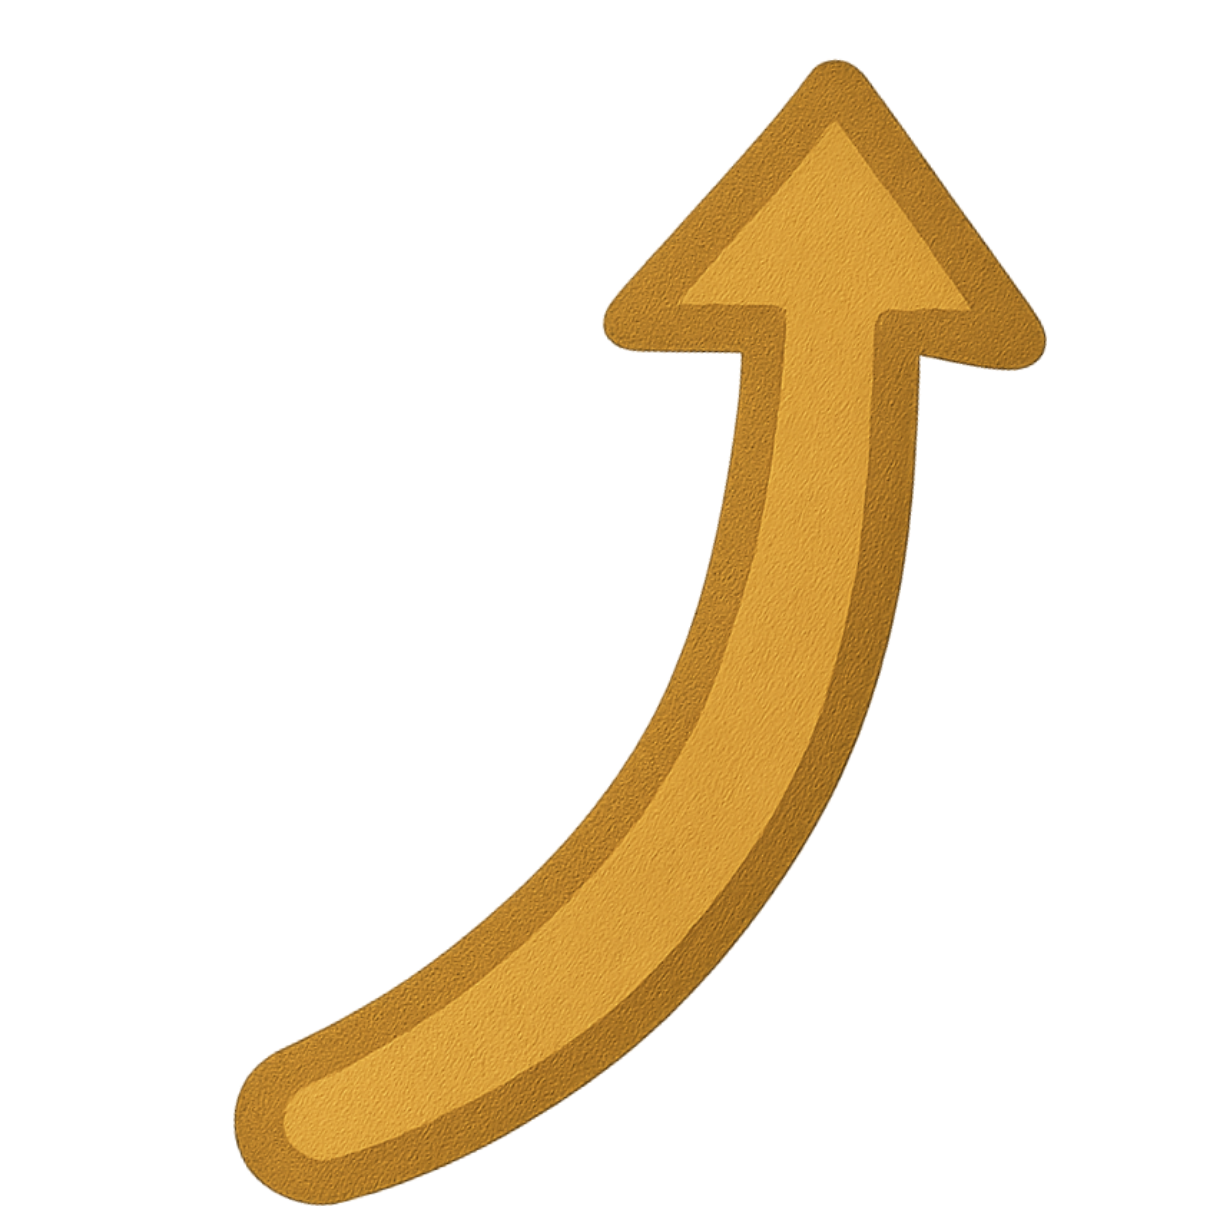
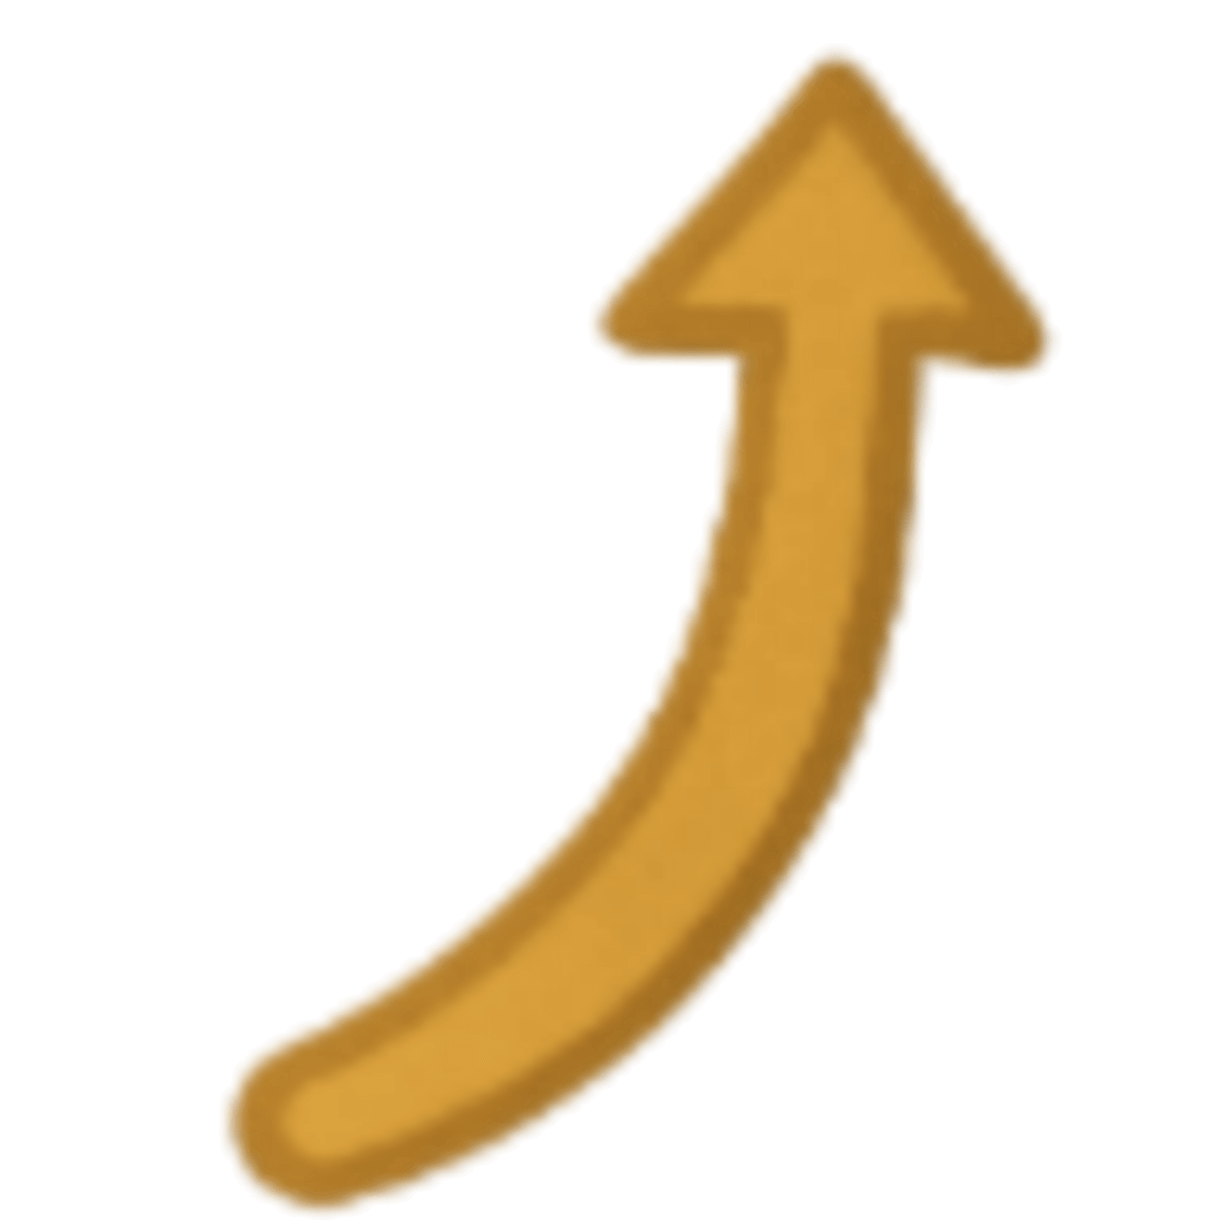
Reduccion de imágenes

Changed region(s): [[0.1869, 0.218, 0.8721, 0.9967], [0.5295, 0.0311, 0.841, 0.2492]]

diff --git a/stats/components/Balance.tsx b/stats/components/Balance.tsx
@@ -121,7 +121,7 @@ export default function Balance() {
       default:
         return {
           title: "Vista",
-          icon: require("../../assets/AppIconCircle.png"),
+          icon: require("../../assets/AppIconCircleTiny.png"),
         };
     }
   };
@@ -142,7 +142,7 @@ export default function Balance() {
       <View style={styles.headerContainer}>
         <View style={styles.contentRow}>
           <Image
-            source={require("../../assets/AppIconCircle.png")}
+            source={require("../../assets/AppIconCircleTiny.png")}
             style={styles.icon}
           />
           <Text style={[styles.headerTitle, { color: colors.yellow }]}>

diff --git a/components/BottomSheet.tsx b/components/BottomSheet.tsx
@@ -42,7 +42,7 @@ export default function BottomSheet({
   const rotateAnim = useRef(new Animated.Value(0)).current;
   const opacityAnim = useRef(new Animated.Value(1)).current;
   const [currentIcon, setCurrentIcon] = useState(
-    require("../assets/AppIconCircle.png")
+    require("../assets/AppIconCircleTiny.png")
   );
 
   // Handle Android back button
@@ -93,7 +93,7 @@ export default function BottomSheet({
       // Cambia el ícono
       setCurrentIcon(
         isOpen
-          ? require("../assets/AppIconCircle.png")
+          ? require("../assets/AppIconCircleTiny.png")
           : require("../assets/ExpensesIcon.png")
       );
 
